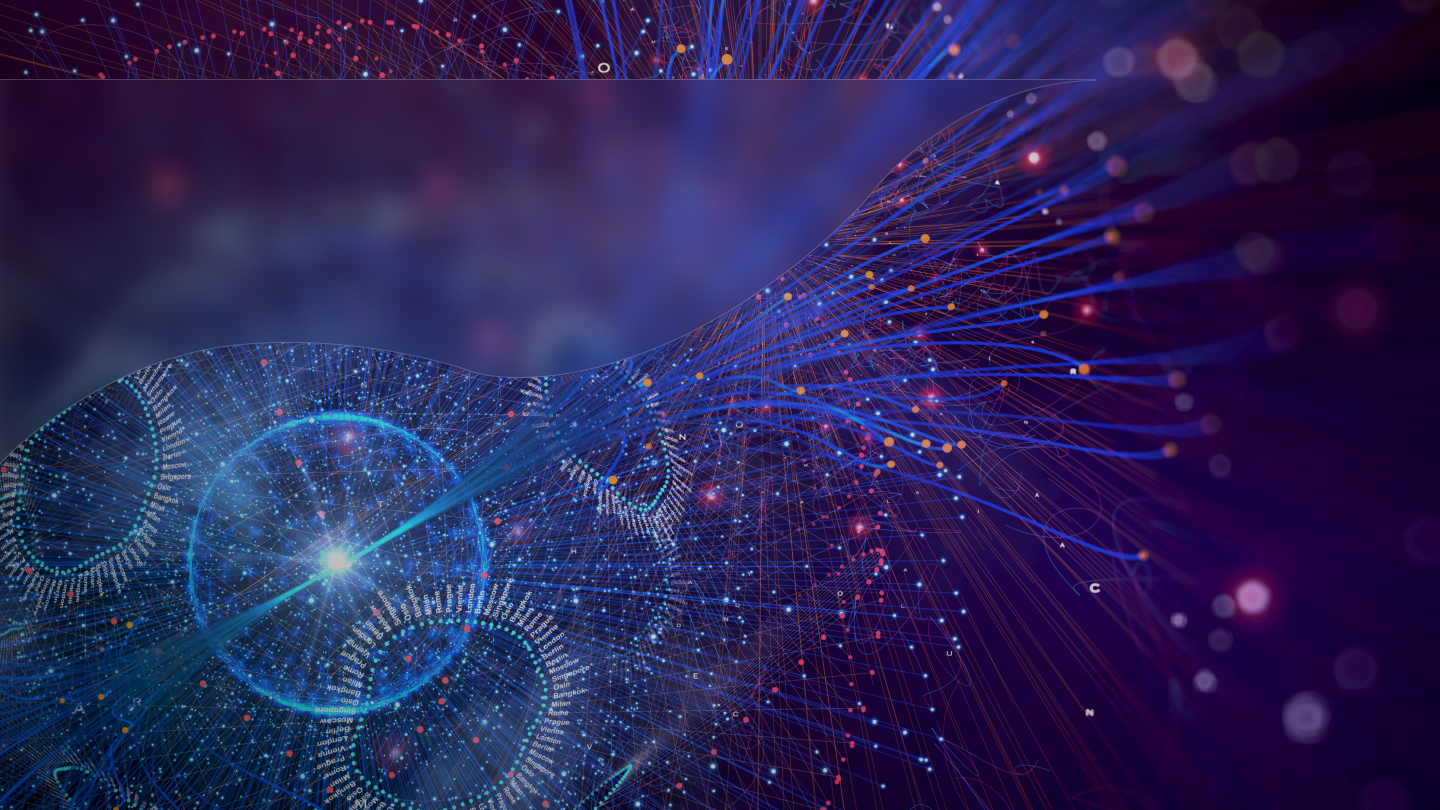
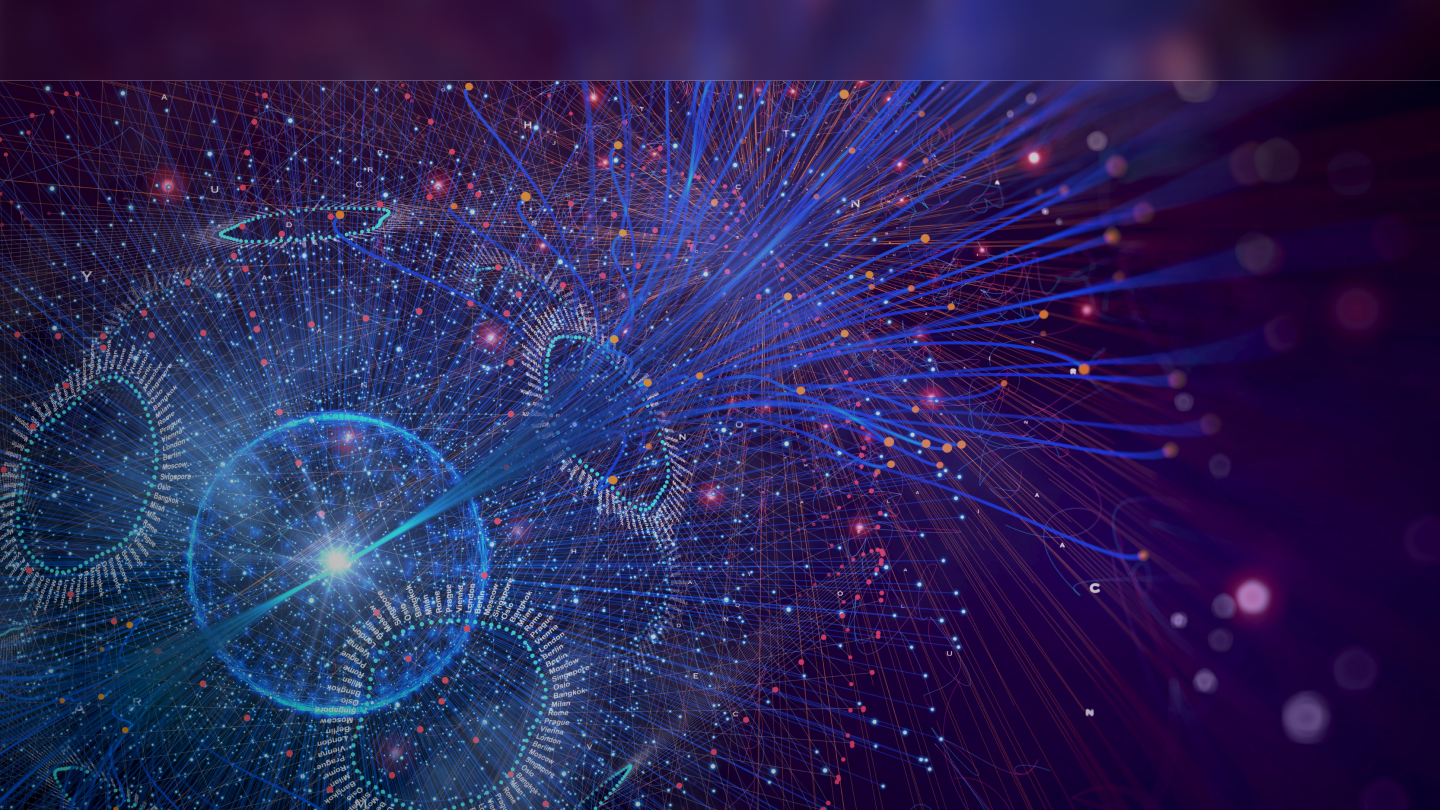
hero section edit

Changed region(s): [[0.0, 0.0, 0.75, 0.5556], [0.7812, 0.0309, 0.8438, 0.0926]]

diff --git a/index.html b/index.html
@@ -20,7 +20,7 @@
 </head>
 
 <body class="font-rubik">
-    <!-- <header class="min-vh-100 bg-img position-relative">
+    <header class="min-vh-100 bg-img position-relative">
         <nav class="pt-15 nav-bg">
             <div class="d-flex justify-content-between container mx-w-1140 justify-content-center align-items-center">
                 <a href="#">
@@ -50,7 +50,7 @@
             </div>
         </nav>
         <div class="container mx-w-1140">
-            <div class="slider-content mt-5">
+            <div class="slider-content mt-5 z-2">
                 <div>
                     <p class="slider-para fw-bold fs-2xl lh-56 text-white mx-w-679">We help leading enterprises use
                         <span class="text-blue">emerging
@@ -70,26 +70,34 @@
                     </p>
                 </div>
             </div>
-            <img class="position-absolute play-svg" src="./assets/image/svg/play-btn.svg" alt="play-svg">
+            <img class="position-absolute play-svg z-2 position-relative" src="./assets/image/svg/play-btn.svg"
+                alt="play-svg">
             <div class="position-absolute bottom-card d-flex ">
                 <div>
-                    <p class="fw-normal fs-sm lh-24 text-white mx-w-379">Eu tincidunt vel orci aliquam vitae nibh
+                    <p class="fw-normal fs-sm lh-24 text-white mx-w-379 z-2 position-relative">Eu tincidunt vel orci
+                        aliquam vitae nibh
                         tellus
                         tortor mauris pharetra nec senectus egestas enim.</p>
-                    <button class="talk-btn border-0 fw-medium fs-sm lh-18 mt-2">Talk to us</button>
+                    <button class="talk-btn border-0 fw-medium fs-sm lh-18 mt-2 z-2 position-relative">Talk to
+                        us</button>
                 </div>
                 <div class="courser-pointer">
-                    <a class="scroll-down d-flex justify-content-center align-items-center mx-auto" href="#section-2">
+                    <a class="scroll-down d-flex justify-content-center align-items-center mx-auto z-2 position-relative"
+                        href="#section-2">
                         <img src="./assets/image/svg/scrol-down-svg.svg" alt="scroll-down-svg">
                     </a>
-                    <p class="fw-normal fs-sm lh-24 text-center text-grey pt-2">Scroll Down</p>
+                    <p class="fw-normal fs-sm lh-24 text-center text-grey pt-2 z-2 position-relative">Scroll Down</p>
                 </div>
             </div>
-            <button id="backToTop" class="btn btn-primary">
-                <img src="./assets/image/png/back-to-top-image.png" alt="up-arrow">
+            <button id="backToTop" class="btn btn-primary ">
+                <img src="./assets/image/png/back-to-top-image.pn" alt="up-arrow">
             </button>
         </div>
-    </header> -->
+        <img class="position-absolute header-top-left-image z-1" src="assets/image/png/header-top-left-image.png"
+            alt="header-top-left-image">
+        <img class="position-absolute header-bottom-right-image" src="assets/image/png/header-bottom-right-image.png"
+            alt="header-bottom-right-image">
+    </header>
     <!-- section-3-->
     <!-- <section>
         <div class="container mx-w-1140">
@@ -137,7 +145,7 @@
         </div>
     </section> -->
     <!-- ---section-4-- -->
-    <!-- <section class="section-4-bg pb-92 position-relative">
+    <section class="section-4-bg pb-92 position-relative">
         <div class="container mx-w-1140">
             <p class="fw-semibold fs-2xl lh-56 mx-w-558 pt-93 text-white z-1 position-relative">Ready
                 to experience the
@@ -155,7 +163,7 @@
             src="assets/image/png/section-4-left-bottom-image.png" alt="section-4-left-bottom-image">
         <img class="position-absolute section-4-right-top-image" src="assets/image/png/section-4-right-top-image.png"
             alt="section-4-right-top-image">
-    </section> -->
+    </section>
     <!-- section-5 -->
     <section class="pt-130 pb-80 justify-content-center font-poppins">
         <div class="container mx-w-1140">

diff --git a/assets/css/style.css b/assets/css/style.css
@@ -126,16 +126,19 @@
     cursor: pointer;
 }
 
-.header-top-left-image {
-    top: -26%;
-    left: 0%;
+.header-bottom-right-image {
+    right: 0;
+    bottom: 0;
+    max-width: 1140px !important;
+    width: 100%;
 }
 
-/* .nav-bg {
-    border-bottom: 1px solid rgba(255, 255, 255, 0.2);
-    background: rgba(0, 0, 0, 0.04);
-    backdrop-filter: blur(30px)
-} */
+.header-top-left-image {
+    top: 79.60px;
+    left: 0%;
+    max-width: 1096px !important;
+    width: 100%;
+}
 
 .menu-lines {
     width: 30px;
@@ -212,7 +215,7 @@
 }
 
 .mx-w-679 {
-    max-width: 679px;
+    max-width: 679px !important;
 }
 
 .slick-dots li button:before {
@@ -288,7 +291,7 @@
 }
 
 .play-svg {
-    top: 50%;
+    top: 60%;
     left: 50%;
     transform: translate(-50%, -50%);
 
@@ -360,6 +363,8 @@
 .section-4-left-bottom-image {
     left: 0%;
     bottom: 0%;
+    max-width: 745px !important;
+    width: 100%;
 }
 
 .section-4-right-top-image {
